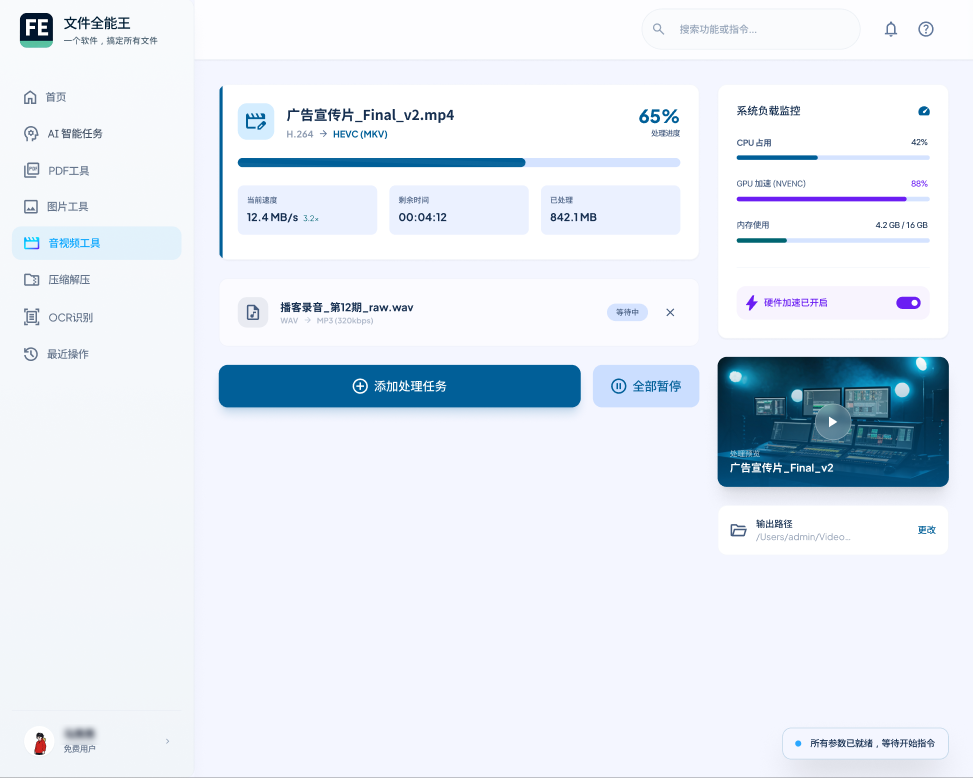
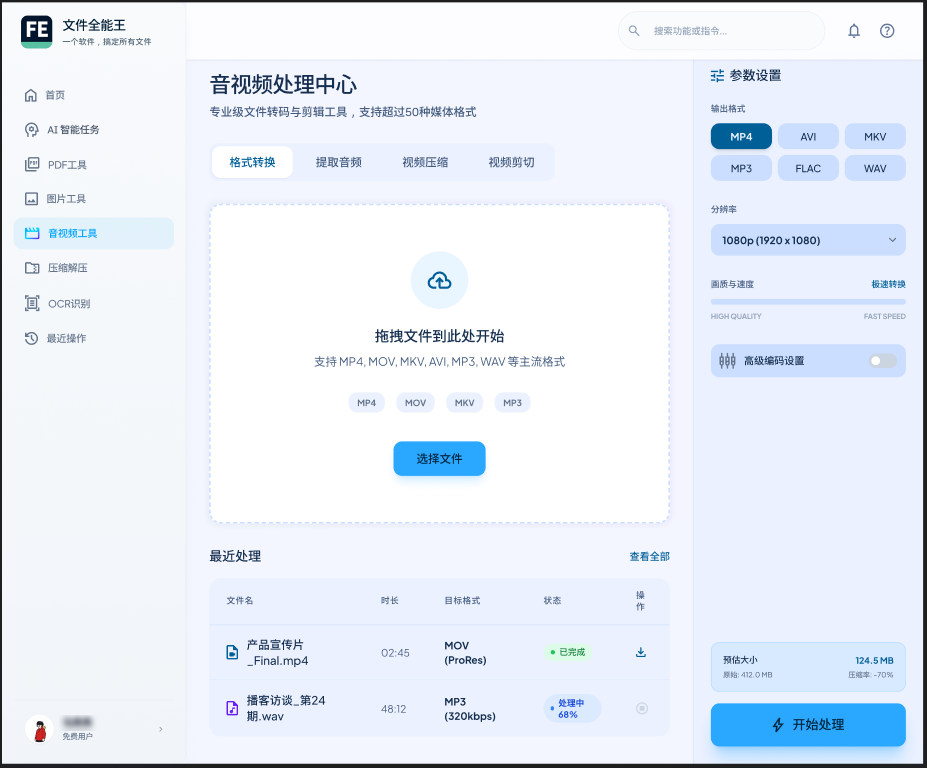
Update readme.md

diff --git a/README.md b/README.md
@@ -16,21 +16,22 @@
 
 ---
 
-
 <div align="center">
 <table>
 <tr>
 <td align="center"><b>首页</b></td>
+<td align="center"><b>AI 智能任务</b></td>
 </tr>
 <tr>
 <td><img src="docs/screenshots/home.png" alt="首页" width="400"></td>
+<td><img src="docs/screenshots/ai.png" alt="AI 智能任务" width="400"></td>
 </tr>
 <tr>
-<td align="center"><b>AI 智能任务</b></td>
+<td align="center"><b>最近操作</b></td>
 <td align="center"><b>PDF 工具</b></td>
 </tr>
 <tr>
-<td><img src="docs/screenshots/ai.png" alt="AI 智能任务" width="400"></td>
+<td><img src="docs/screenshots/history.png" alt="最近操作" width="400"></td>
 <td><img src="docs/screenshots/pdf.png" alt="PDF 工具" width="400"></td>
 </tr>
 <tr>
@@ -42,6 +43,7 @@
 <td><img src="docs/screenshots/media.png" alt="音视频工具" width="400"></td>
 </tr>
 </table>
+
 
 
 
